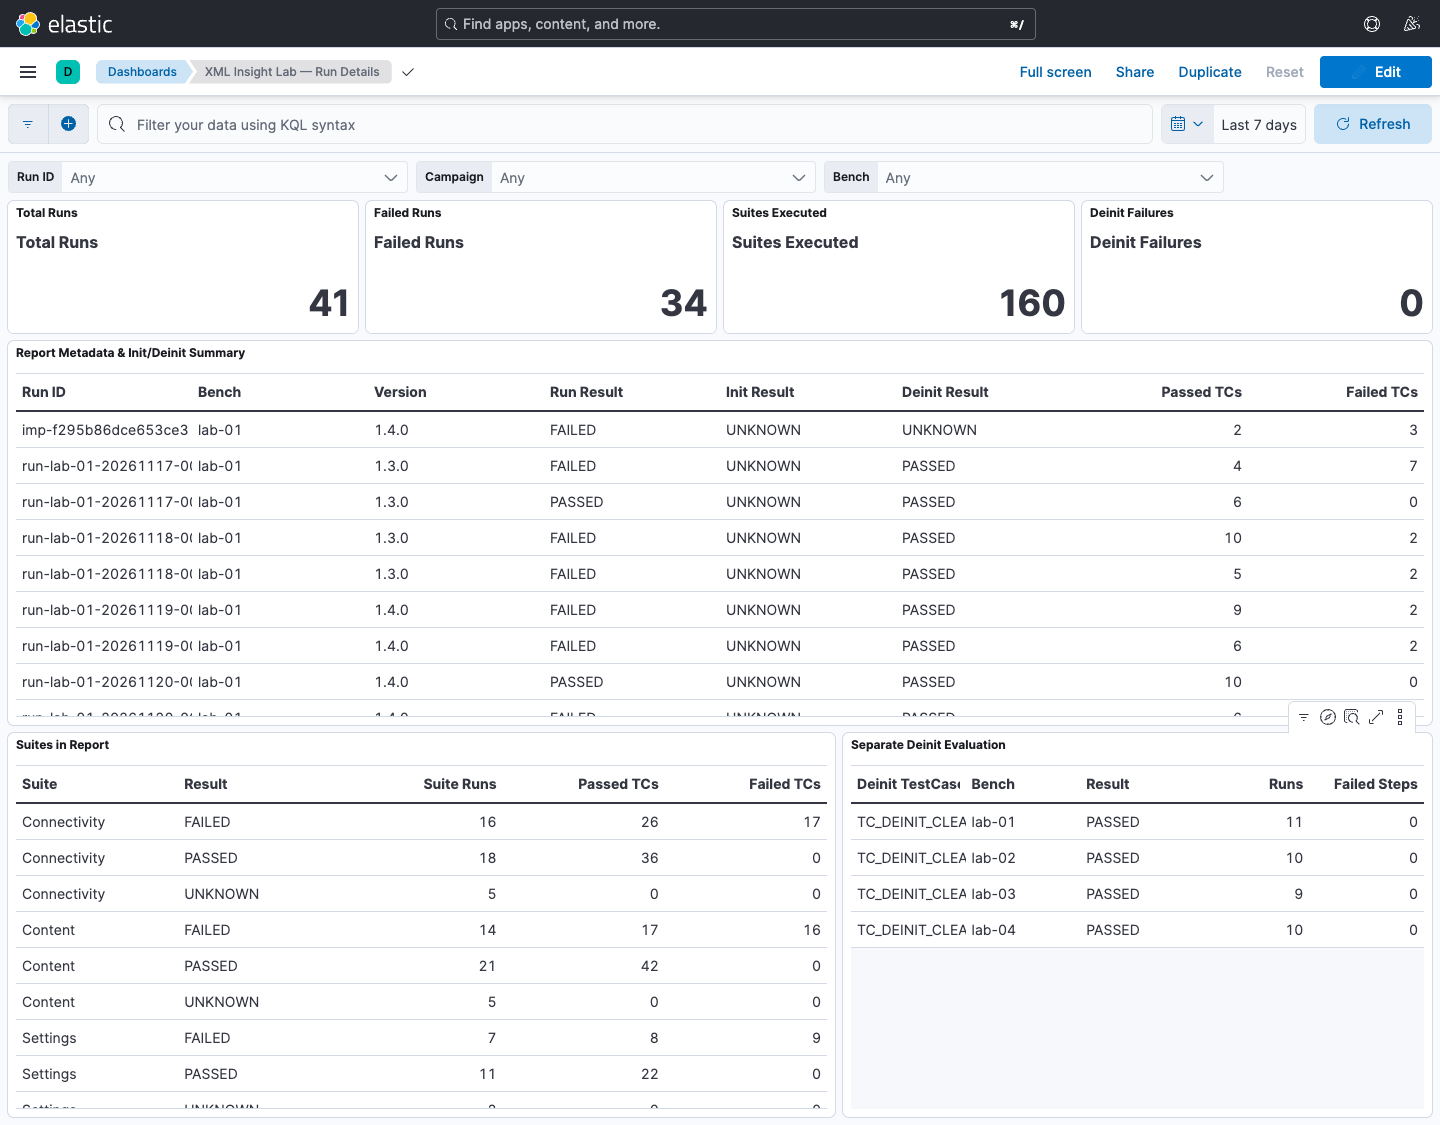
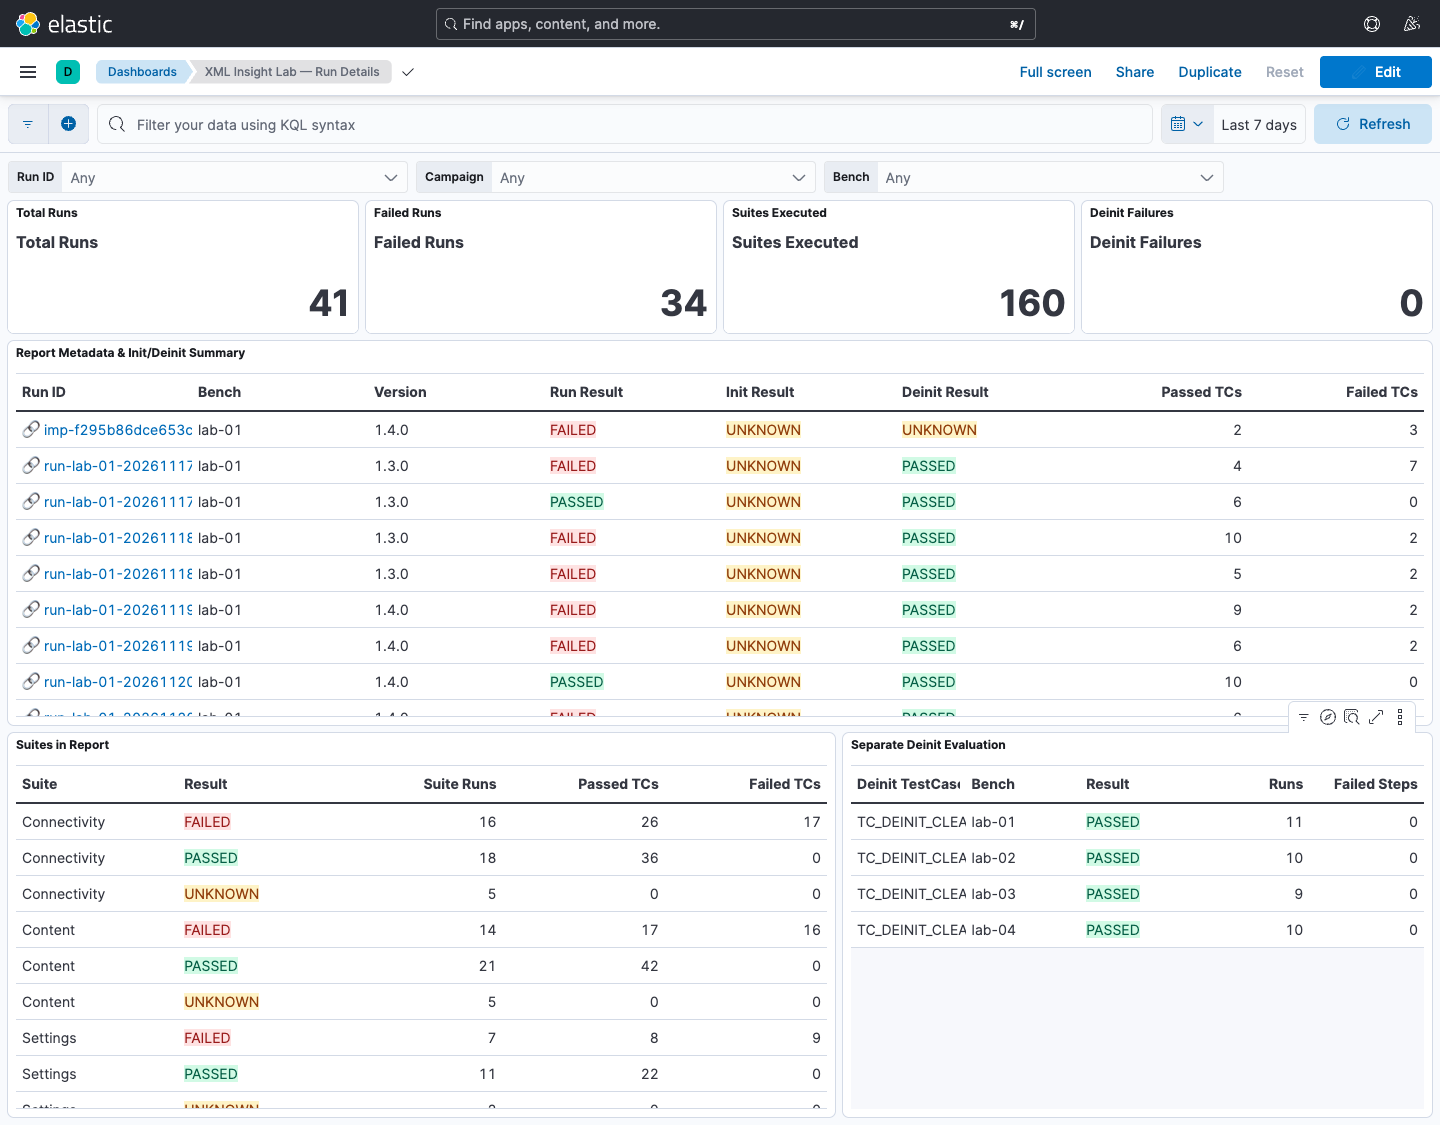
feat(kibana): add 14th Interactive Controls, Sliders, Buttons, Drilldowns, Field Formatters & Vega HTML Inputs showcase

diff --git a/docs/xml-insight-lab-showcase.md b/docs/xml-insight-lab-showcase.md
@@ -10,19 +10,19 @@ title: "XML Insight Lab — Project Showcase"
 
 ---
 
-## Kibana Visualization Capabilities Matrix (23 Distinct Visualization Paradigms)
+## Kibana Visualization & Interactivity Capabilities Matrix (28 Distinct Capabilities)
 
-To demonstrate the full visual analytics power of Kibana `8.17.4`, our 13 provisioned dashboards combine **23 distinct visualization & dashboard paradigms** across **Kibana Lens**, **TSVB (Time Series Visual Builder)**, **Classic Aggregation Visualizations**, **Markdown Navigation Hubs**, and **Vega-Lite Custom Grammar**:
+To demonstrate the full visual analytics and interactive UI power of Kibana `8.17.4`, our 14 provisioned dashboards combine **28 distinct visualization & interactive control paradigms** across **Kibana Lens**, **Interactive Controls (`controlGroupInput`)**, **Dynamic Drilldowns (`dynamicActions`)**, **Data View Field Formatters (`fieldFormatMap`)**, **TSVB (Time Series Visual Builder)**, **Classic Aggregation Visualizations**, **Markdown Navigation Hubs**, and **Vega-Lite Custom Grammar with HTML Inputs**:
 
-| # | Kibana Visualization Type | Technical Type (`visualizationType` / `visState.type`) | Where It Is Used in Our Dashboards |
+| # | Kibana Visualization / Interactive Control Type | Technical Type (`visualizationType` / `visState.type`) | Where It Is Used in Our Dashboards |
 | :--- | :--- | :--- | :--- |
 | **1** | **KPI Metric Card** | `lens` → `lnsMetric` | Top KPI summary rows across Dashboards `01`, `02`, `05`, `09`, `10`, `11`, `12` |
 | **2** | **Arc Gauge (Semicircular Dial)** | `lens` → `lnsGauge` (`shape: "arc"`) | `Complete Plan Slots (38 / 40)` on Dashboard `12` |
 | **3** | **Horizontal Bullet Gauge** | `lens` → `lnsGauge` (`shape: "horizontalBullet"`) | `Received Plan Reports (39 / 40)` on Dashboard `12` |
 | **4** | **Full 360° Circle Ring Gauge** | `lens` → `lnsGauge` (`shape: "circle"`) | `Relevant Faults (62)` on Dashboard `13` |
 | **5** | **Multi-Bucket Circular Gauges (4-in-1 Panel)** | `visualization` → `gauge` (`group` split by `test_bench.id`) | `Failures per Test Bench (lab-01..lab-04)` on Dashboards `08`, `13` |
-| **6** | **Hierarchical Treemap** | `lens` → `lnsPie` (`shape: "treemap"`) | `Error Category × Rule ID` (Dashboards `04`, `12`) & `Owner × Root Cause` (Dashboard `09`) |
-| **7** | **Mosaic / Marimekko 2D Proportional Chart** | `lens` → `lnsPie` (`shape: "mosaic"`) | `Error Category × Bench Proportion` on Dashboard `13` |
+| **6** | **Hierarchical Treemap** | `lens` → `lnsPie` (`shape: "treemap"`) | `Error Category × Rule ID` (Dashboards `04`, `12`, `14`) & `Owner × Root Cause` (Dashboard `09`) |
+| **7** | **Mosaic / Marimekko 2D Proportional Chart** | `lens` → `lnsPie` (`shape: "mosaic"`) | `Error Category × Bench Proportion` on Dashboards `13`, `14` |
 | **8** | **Waffle Grid Chart (10×10 Tile Grid)** | `lens` → `lnsPie` (`shape: "waffle"`) | `Diagnostic Message Disposition` (Dashboards `09`, `12`) & `Failure Share by Software Version` (Dashboard `05`) |
 | **9** | **Multi-Ring Sunburst (2-Level Concentric Donut)** | `lens` → `lnsPie` (`shape: "donut"`, 2 rings) | `Bench → Suite Failure Sunburst` (Dashboards `06`, `12`) |
 | **10** | **1-Ring Donut Chart** | `lens` → `lnsPie` (`shape: "donut"`) | `Disposition Share`, `Owner Share`, `Plan Completeness Share` |
@@ -38,11 +38,16 @@ To demonstrate the full visual analytics power of Kibana `8.17.4`, our 13 provis
 | **20** | **2D Color Heatmap Matrix** | `visualization` → `heatmap` | `Bench × Suite Failures` (`03`, `12`), `Bench × Error Category` (`03`), `Software Version × TestCase` (`05`) |
 | **21** | **Vega-Lite Custom Proportional Bubble Matrix** | `visualization` → `vega` (`circle` + `text` layers) | `Bench × Error Category Proportional Bubble Matrix` (`03`, `12`) |
 | **22** | **Vega-Lite Pareto Curve, Swimlane Matrix & 5-D Parallel Coordinates** | `visualization` → `vega` (dual-axis Pareto, health swimlane & multi-stage fold flow) | `Top Error Rules Pareto Curve`, `Campaign × Bench Health Swimlane` (`08`, `13`) & `5-D Parallel Coordinates Flow` (`13`) |
-| **23** | **Interactive Markdown Navigation Hub & Aggregated Lens Data Tables** | `visualization` → `markdown` & `lens` → `lnsDatatable` | Clickable drilldown navigation hub (`13`) & 28 clean `lnsDatatable` panels across all dashboards |
+| **23** | **Aggregated Lens Data Tables (`lnsDatatable`)** | `lens` → `lnsDatatable` (`customLabel: true`) | 29 clean aggregated data tables across all dashboards |
+| **24** | **Chained Hierarchical Dropdown Controls** | `controlGroupInput` → `optionsListControl` (`chainingSystem: "HIERARCHICAL"`) | Cascading filter bar (`1. Campaign → 2. Bench → 3. Suite → 4. Disposition`) across all dashboards |
+| **25** | **Numeric Two-Handle Range Slider Controls** | `controlGroupInput` → `rangeSliderControl` | Interactive numeric sliders for `Fault Count (0..2)` and `Retry Attempt (1..2)` on Dashboards `12`, `13`, `14` |
+| **26** | **One-Click KQL Filter Preset & Navigation Buttons** | `visualization` → `markdown` with KQL query URL parameters | One-click triage preset buttons (`🔴 RELEVANT Only`, `🟠 CRITICAL & HIGH`, `🟣 Retries > 1`, `🔵 lab-04 Hotspot`) on Dashboard `14` |
+| **27** | **Dashboard-to-Dashboard Click Drilldowns & Data View Color/URL Formatters** | `enhancements.dynamicActions` (`DASHBOARD_TO_DASHBOARD_DRILLDOWN`) & `fieldFormatMap` (`color`, `url`) | Context drilldown buttons to Dashboards `09`/`10`/`11`, clickable `🔗 run.id` links, and Red/Green/Amber status pill badges in all tables |
+| **28** | **Vega Built-In HTML Radio Buttons, Select Dropdown & Range Slider (`bind`)** | `visualization` → `vega` (`params[].bind`: `radio`, `select`, `range`) | In-chart HTML Radio Buttons (`Owner`), Select Dropdown (`Severity`), and Range Slider (`Min Faults`) on Dashboard `14` |
 
 ---
 
-## Complete Dashboard Gallery (All 13 Dashboards)
+## Complete Dashboard Gallery (All 14 Dashboards)
 
 ### Featured I: 12. Kibana Visualization Capabilities Showcase (`xml-insight-viz-showcase`)
 Our first flagship capability showcase displaying **12 distinct Kibana visualization types side by side**: KPI Metric (`lnsMetric`), Arc Gauge (`lnsGauge`), Horizontal Bullet Gauge (`lnsGauge`), Hierarchical Treemap (`lnsPie`), Waffle Grid (`lnsPie`), Multi-Ring Sunburst (`lnsPie`), 100% Percentage Stacked Bar (`lnsXY`), Dual-Axis Bar+Line Combo Chart (`lnsXY`), Tag Cloud (`tagcloud`), 2D Color Heatmap (`heatmap`), Vega-Lite Custom Bubble Matrix (`vega`), and an aggregated Lens Data Table (`lnsDatatable`).
@@ -65,6 +70,18 @@ Our second flagship showcase demonstrating **10 additional advanced Kibana parad
 10. **Vega-Lite 5-Dimension Parallel Coordinates Flow (`vega`)** tracing failure paths across `1_Bench → 2_Version → 3_Suite → 4_Category → 5_Owner`
 
 ![13. Advanced Kibana Analytics](assets/screenshots/13-advanced-kibana-analytics.png)
+
+---
+
+### Featured III: 14. Interactive Controls, Sliders, Buttons, Drilldowns & Vega Inputs (`xml-insight-interactive-showcase`)
+Our third flagship showcase dedicated to **interactive UI controls, buttons, formatters, and drilldowns**:
+1. **Chained Hierarchical Dropdowns (`optionsListControl`, `chainingSystem: "HIERARCHICAL"`)**: Selecting `1. Campaign` filters `2. Bench`, which filters `3. Suite`, which filters `4. Disposition`.
+2. **Numeric Two-Handle Range Sliders (`rangeSliderControl`)**: Filter by `Fault Count (0 → 2)` and `Retry Attempt (1 → 2)`.
+3. **One-Click KQL Filter Preset Buttons (`markdown`)**: Instant buttons applying pre-configured KQL filters (`🔴 Actionable RELEVANT Failures Only`, `🟠 CRITICAL & HIGH Severity Faults`, `🟣 All Retry Executions (attempt > 1)`, `🔵 Bench lab-04 Connectivity Hotspot`).
+4. **Vega Explorer with Built-In HTML Radio Buttons, Select Dropdown & Range Slider (`bind`)**: Live in-chart HTML controls (`🔘 Owner (Radio)`, `▾ Severity (Dropdown)`, `⊶ Min Faults (Slider)`).
+5. **Dashboard-to-Dashboard Context Drilldowns (`DASHBOARD_TO_DASHBOARD_DRILLDOWN`)** and **Data View Color Badges & Clickable `🔗 run.id` Hyperlink Buttons (`fieldFormatMap`)**.
+
+![14. Interactive Controls, Sliders, Buttons, Drilldowns & Vega Inputs](assets/screenshots/14-interactive-controls-drilldowns-showcase.png)
 
 ---
 

diff --git a/project/docs/kibana-discover-guide.md b/project/docs/kibana-discover-guide.md
@@ -1,6 +1,6 @@
 # Kibana Dashboards & Drilldown Guide
 
-XML Insight Lab provisions **13 Kibana dashboards** showcasing **23 distinct visualization & dashboard paradigms** (`lnsDatatable`, `lnsMetric`, `lnsGauge` Arc, Horizontal Bullet & Full 360° Circle Ring, `lnsPie` Treemap, Mosaic/Marimekko, Waffle Grid, Multi-Ring Sunburst, Donut & Pie, `lnsXY` Stacked Bar, Horizontal Bar, 100% Percentage Stacked Bar, 100% Percentage Stacked Area, Dual-Axis Combo Bar+Line, Stacked Area & Line, TSVB `top_n` Progress Bars & `metric` KPI, Classic `tagcloud`, Classic 4-in-1 Multi-Bucket Circular `gauge`, Classic 2D Color `heatmap`, Interactive `markdown` Navigation Hub, and custom `vega` Bubble Matrix, Dual-Axis Pareto Curve, Campaign Swimlane Health Matrix & 5-Dimension Parallel Coordinates Flow) backed by **7 Data Views**. All dashboards focus strictly on **errors, test benches, suites, software versions, and root-cause analysis**.
+XML Insight Lab provisions **14 Kibana dashboards** showcasing **28 distinct visualization & interactivity paradigms** (`lnsDatatable`, `lnsMetric`, `lnsGauge` Arc, Horizontal Bullet & Full 360° Circle Ring, `lnsPie` Treemap, Mosaic/Marimekko, Waffle Grid, Multi-Ring Sunburst, Donut & Pie, `lnsXY` Stacked Bar, Horizontal Bar, 100% Percentage Stacked Bar, 100% Percentage Stacked Area, Dual-Axis Combo Bar+Line, Stacked Area & Line, TSVB `top_n` Progress Bars & `metric` KPI, Classic `tagcloud`, Classic 4-in-1 Multi-Bucket Circular `gauge`, Classic 2D Color `heatmap`, Interactive `markdown` Navigation & Preset Buttons, Chained Hierarchical Dropdowns `optionsListControl`, Numeric Two-Handle Range Sliders `rangeSliderControl`, Context Drilldowns `DASHBOARD_TO_DASHBOARD_DRILLDOWN`, Data View Color Badges & Clickable `🔗 run.id` Hyperlinks `fieldFormatMap`, and custom `vega` Bubble Matrix, Dual-Axis Pareto Curve, Campaign Swimlane Health Matrix, 5-Dimension Parallel Coordinates Flow & Vega Built-In HTML Radio/Select/Range Inputs) backed by **7 Data Views**. All dashboards focus strictly on **errors, test benches, suites, software versions, and root-cause analysis**.
 
 ## Provisioned Dashboards
 
@@ -19,6 +19,7 @@ XML Insight Lab provisions **13 Kibana dashboards** showcasing **23 distinct vis
 | 11 | **Error Classification & Root Cause Analysis** | `/app/dashboards#/view/xml-insight-error-classification` | Config-driven error mapping categories, severities, dispositions, root causes, owners, message drilldown, Owner × Root Cause Treemap, Disposition Waffle & Root Cause Tag Cloud |
 | 12 | **Kibana Visualization Capabilities Showcase** | `/app/dashboards#/view/xml-insight-viz-showcase` | Flagship showcase I: 12 distinct Kibana visualization paradigms side by side on a single dashboard |
 | 13 | **Advanced Kibana Analytics (Vega, TSVB, Mosaic, Multi-Gauges & Parallel Flow)** | `/app/dashboards#/view/xml-insight-advanced-analytics` | Flagship showcase II: Interactive Markdown Hub, 100% Stacked Area, 360° Circle Gauge, TSVB KPI & Top-N Progress Bars, 4-in-1 Multi-Gauges, Mosaic (Marimekko), Vega Pareto Curve, Vega Campaign Swimlane & Vega 5-D Parallel Coordinates |
+| 14 | **Interactive Controls, Sliders, Buttons, Drilldowns & Vega Inputs** | `/app/dashboards#/view/xml-insight-interactive-showcase` | Flagship showcase III: Chained Hierarchical Dropdowns, Numeric Range Sliders, One-Click KQL Preset Buttons, Vega Built-In HTML Radio/Select/Range Inputs, Context Drilldowns & Data View Color/URL Formatters |
 
 ## Recommended Analysis Path
 

diff --git a/project/README.md b/project/README.md
@@ -30,7 +30,7 @@ From `/Users/cc/Desktop/ELK-Stack/project`:
 | `./scripts/stop.sh` | Stop containers while preserving `esdata` volume |
 | `./scripts/reset.sh` | **Destructive:** remove containers, `esdata` volume, and `./data/` |
 
-## Dashboard Screenshots (All 13 Dashboards & 23 Visualization Paradigms)
+## Dashboard Screenshots (All 14 Dashboards & 28 Visualization/Interactivity Capabilities)
 
 ### Featured I: 12. Kibana Visualization Capabilities Showcase
 Demonstrates 12 distinct Kibana visualization types side by side: KPI Metric (`lnsMetric`), Arc Gauge (`lnsGauge`), Horizontal Bullet Gauge (`lnsGauge`), Hierarchical Treemap (`lnsPie`), Waffle Grid (`lnsPie`), Multi-Ring Sunburst (`lnsPie`), 100% Percentage Stacked Bar (`lnsXY`), Dual-Axis Bar+Line Combo Chart (`lnsXY`), Tag Cloud (`tagcloud`), 2D Color Heatmap (`heatmap`), Vega-Lite Custom Bubble Matrix (`vega`), and Aggregated Lens Data Table (`lnsDatatable`).
@@ -39,6 +39,10 @@ Demonstrates 12 distinct Kibana visualization types side by side: KPI Metric (`l
 ### Featured II: 13. Advanced Kibana Analytics (Vega, TSVB, Mosaic, Multi-Gauges & Parallel Flow)
 Demonstrates 10 additional advanced Kibana paradigms: Interactive Markdown Navigation Hub (`markdown`), 100% Percentage Stacked Area Trend (`area_percentage_stacked`), Full 360° Circle Ring Gauge (`lnsGauge`), TSVB KPI (`metrics`), Multi-Bench 4-in-1 Circular Gauges (`gauge`), TSVB Top-N Color Progress Bars (`top_n`), Mosaic / Marimekko 2D Proportional Chart (`mosaic`), Vega-Lite Dual-Axis Pareto Curve (`vega`), Vega-Lite Campaign × Bench Health Swimlane Matrix (`vega`), and Vega-Lite 5-Dimension Parallel Coordinates Flow (`vega`).
 ![13. Advanced Kibana Analytics](docs/assets/screenshots/13-advanced-kibana-analytics.png)
+
+### Featured III: 14. Interactive Controls, Sliders, Buttons, Drilldowns & Vega Inputs
+Demonstrates Chained Hierarchical Dropdowns (`1. Campaign → 2. Bench → 3. Suite → 4. Disposition`), Numeric Range Sliders (`Fault Count`, `Retry Attempt`), One-Click KQL Filter Preset Buttons, Vega Built-In HTML Radio Buttons / Select Dropdown / Range Slider (`bind`), Dashboard-to-Dashboard Context Drilldowns (`DASHBOARD_TO_DASHBOARD_DRILLDOWN`), and Data View Color Badges & Clickable `🔗 run.id` Hyperlink Buttons (`fieldFormatMap`).
+![14. Interactive Controls, Sliders, Buttons, Drilldowns & Vega Inputs](docs/assets/screenshots/14-interactive-controls-drilldowns-showcase.png)
 
 ### 01. Nightly Overview
 ![01. Nightly Overview](docs/assets/screenshots/01-nightly-overview.png)
